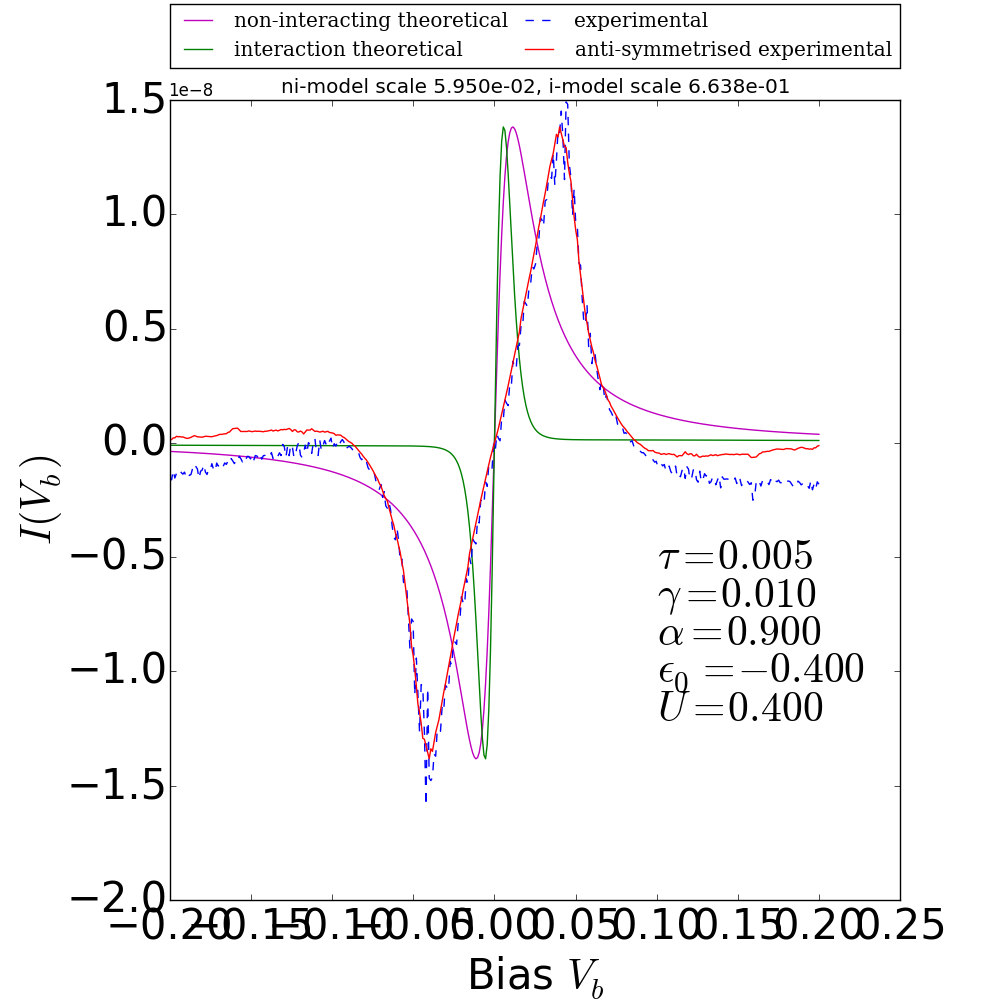
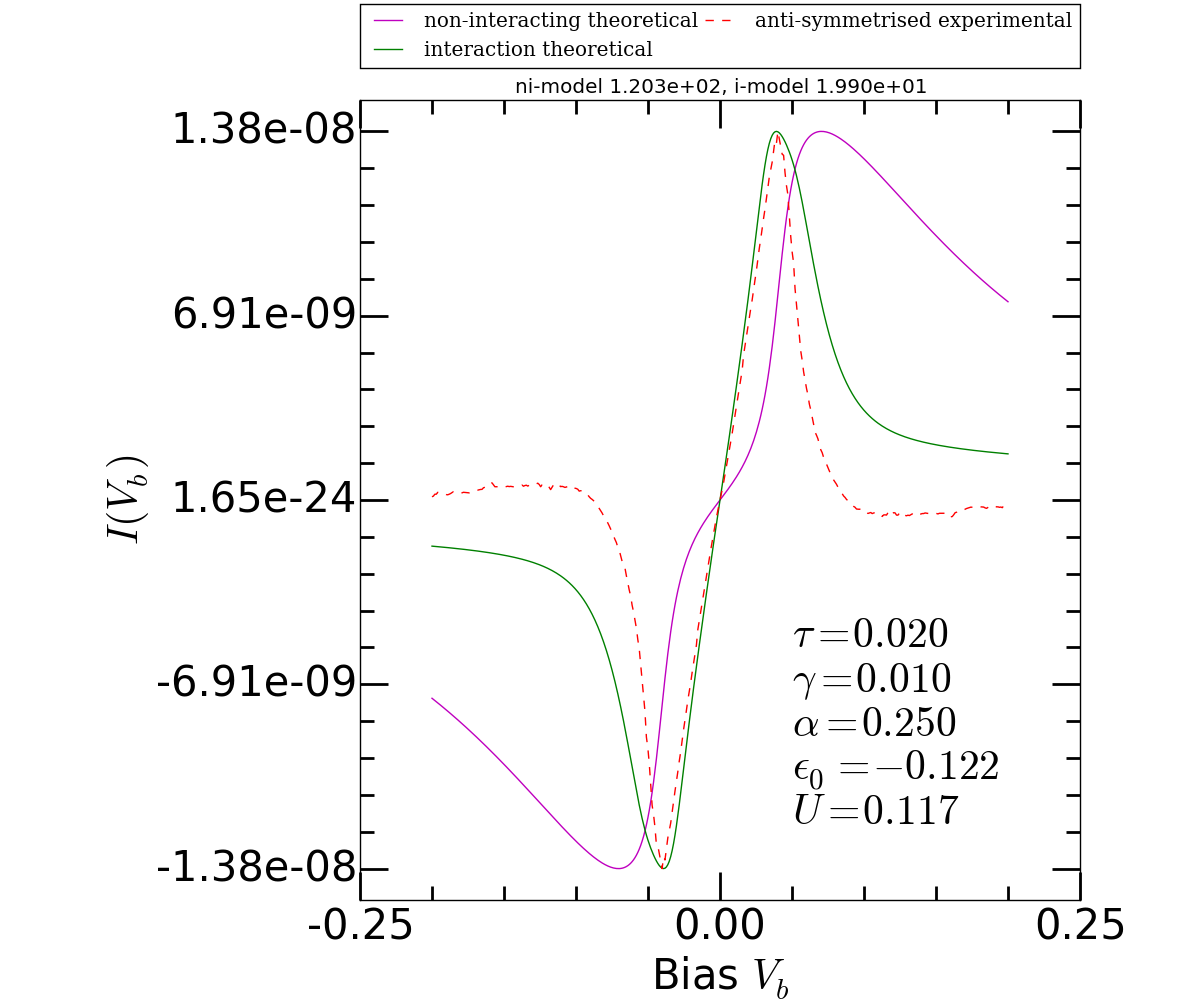
Better fits.

diff --git a/perrin_exp_roughfit_visualise.py b/perrin_exp_roughfit_visualise.py
@@ -1,6 +1,9 @@
 import numpy as np
 import matplotlib
 import matplotlib.pyplot as plt
+from matplotlib.ticker import AutoMinorLocator
+from matplotlib import cm
+from matplotlib.ticker import FormatStrFormatter
 from scipy.constants import physical_constants as pc
 from igf import *
 from experiment import *
@@ -73,12 +76,15 @@ epsilon_res = 1000
 levels_ni = 0.00
 if editing_parameters:
     print "Changing parameters for my convenience."
-    gamma = 0.005*2.0
-    tau = 0.005*1.0
-    alpha = 0.9
-    capacitive = 0.100*4.0
-    levels = -capacitive 
-    
+     
+    gamma = 0.010
+    tau = 0.020
+    alpha = 0.300
+    capacitive = 0.117
+    levels = -0.122
+     
+    alpha = 0.25
+     
     levels_ni = 0.00
     
 bias_left = -1
@@ -165,11 +171,11 @@ print "Error is %2.3e, scale factor %.3e, scale error %.3e" % (error, scale, sca
 minimum = 1.2 * np.min(current)
 maximum = 1.2 * np.max(current)
 
-fig = plt.figure(figsize=(10, 10), dpi=1080)
+fig = plt.figure(figsize=(12, 10), dpi=1080)
 ax = fig.add_subplot(111)
 plt.xticks(fontsize=30)
 plt.yticks(fontsize=30)
-fig.subplots_adjust(left=0.17)
+fig.subplots_adjust(left=0.30)
 
 title = "Dummy title"
 xlabel = ""
@@ -210,15 +216,15 @@ current *= new_scale
 
 plt.plot(biaswindow, perrin_current, 'm-', label='non-interacting theoretical') 
 plt.plot(biaswindow, current, 'g-', label='interaction theoretical') 
-plt.plot(experimental_bias, original_current, 'b--', label='experimental')   
-plt.plot(experimental_bias, experimental_current, 'r-', label='anti-symmetrised experimental')   
+#plt.plot(experimental_bias, original_current, 'b--', label='experimental')   
+plt.plot(experimental_bias, experimental_current, 'r--', label='anti-symmetrised experimental')   
 #plt.legend()
 
-ax.text( 0.10, 0.40 * current.min(), "$\\tau=%.3f$" % tau , fontsize=30 )
-ax.text( 0.10, 0.52 * current.min(), "$\\gamma=%.3f$" % gamma , fontsize=30 )
-ax.text( 0.10, 0.64 * current.min(), "$\\alpha=%.3f$" % alpha , fontsize=30 )
-ax.text( 0.10, 0.76 * current.min(), "$\\epsilon_0=%.3f$" % levels , fontsize=30 )
-ax.text( 0.10, 0.88 * current.min(), "$U=%.3f$" % capacitive , fontsize=30 )
+ax.text( 0.05, 0.40 * experimental_current.min(), "$\\tau=%.3f$" % tau , fontsize=30 )
+ax.text( 0.05, 0.52 * experimental_current.min(), "$\\gamma=%.3f$" % gamma , fontsize=30 )
+ax.text( 0.05, 0.64 * experimental_current.min(), "$\\alpha=%.3f$" % alpha , fontsize=30 )
+ax.text( 0.05, 0.76 * experimental_current.min(), "$\\epsilon_0=%.3f$" % levels , fontsize=30 )
+ax.text( 0.05, 0.88 * experimental_current.min(), "$U=%.3f$" % capacitive , fontsize=30 )
 
 
 plt.legend(bbox_to_anchor=(0., 1.04, 1., .102), loc=3,
@@ -232,8 +238,23 @@ ylabel = "$I(V_b)$"
 #plt.ylim([minimum, maximum])
 plt.xlabel(xlabel, fontsize=30)
 plt.ylabel(ylabel, fontsize=30)
+ 
+plt.xticks(np.array([-0.25, 0.00, 0.25])) 
+plt.yticks(np.linspace( experimental_current.min(), experimental_current.max(), 5))
 
-plt.title("ni-model scale %.3e, i-model scale %.3e" % (perrin_scale, new_scale))
+minorLocator1 = AutoMinorLocator(5)
+minorLocator2 = AutoMinorLocator(5)
+ax.xaxis.set_minor_locator(minorLocator1) 
+ax.yaxis.set_minor_locator(minorLocator2) 
+
+ax.xaxis.set_major_formatter(FormatStrFormatter('%.2f'))
+ax.yaxis.set_major_formatter(FormatStrFormatter('%.2e'))
+
+plt.tick_params(which='both', width=2)
+plt.tick_params(which='major', length=20)
+plt.tick_params(which='minor', length=10)
+
+plt.title("ni-model %.3e, i-model %.3e" % (1./perrin_scale, 1./new_scale))
 #plt.title( "Pts [%s], $\\alpha=%.3f$, $\\tau=%.3f$, $\\Gamma=%.3f$, $\\epsilon_0=%.3f$, $V=%.3f$, $\\beta=%.3f$, $U=%.3f$" % (title,
 #    alpha, tau, gamma, levels, bias, beta, capacitive), fontsize=15)     
 #plt.legend()
